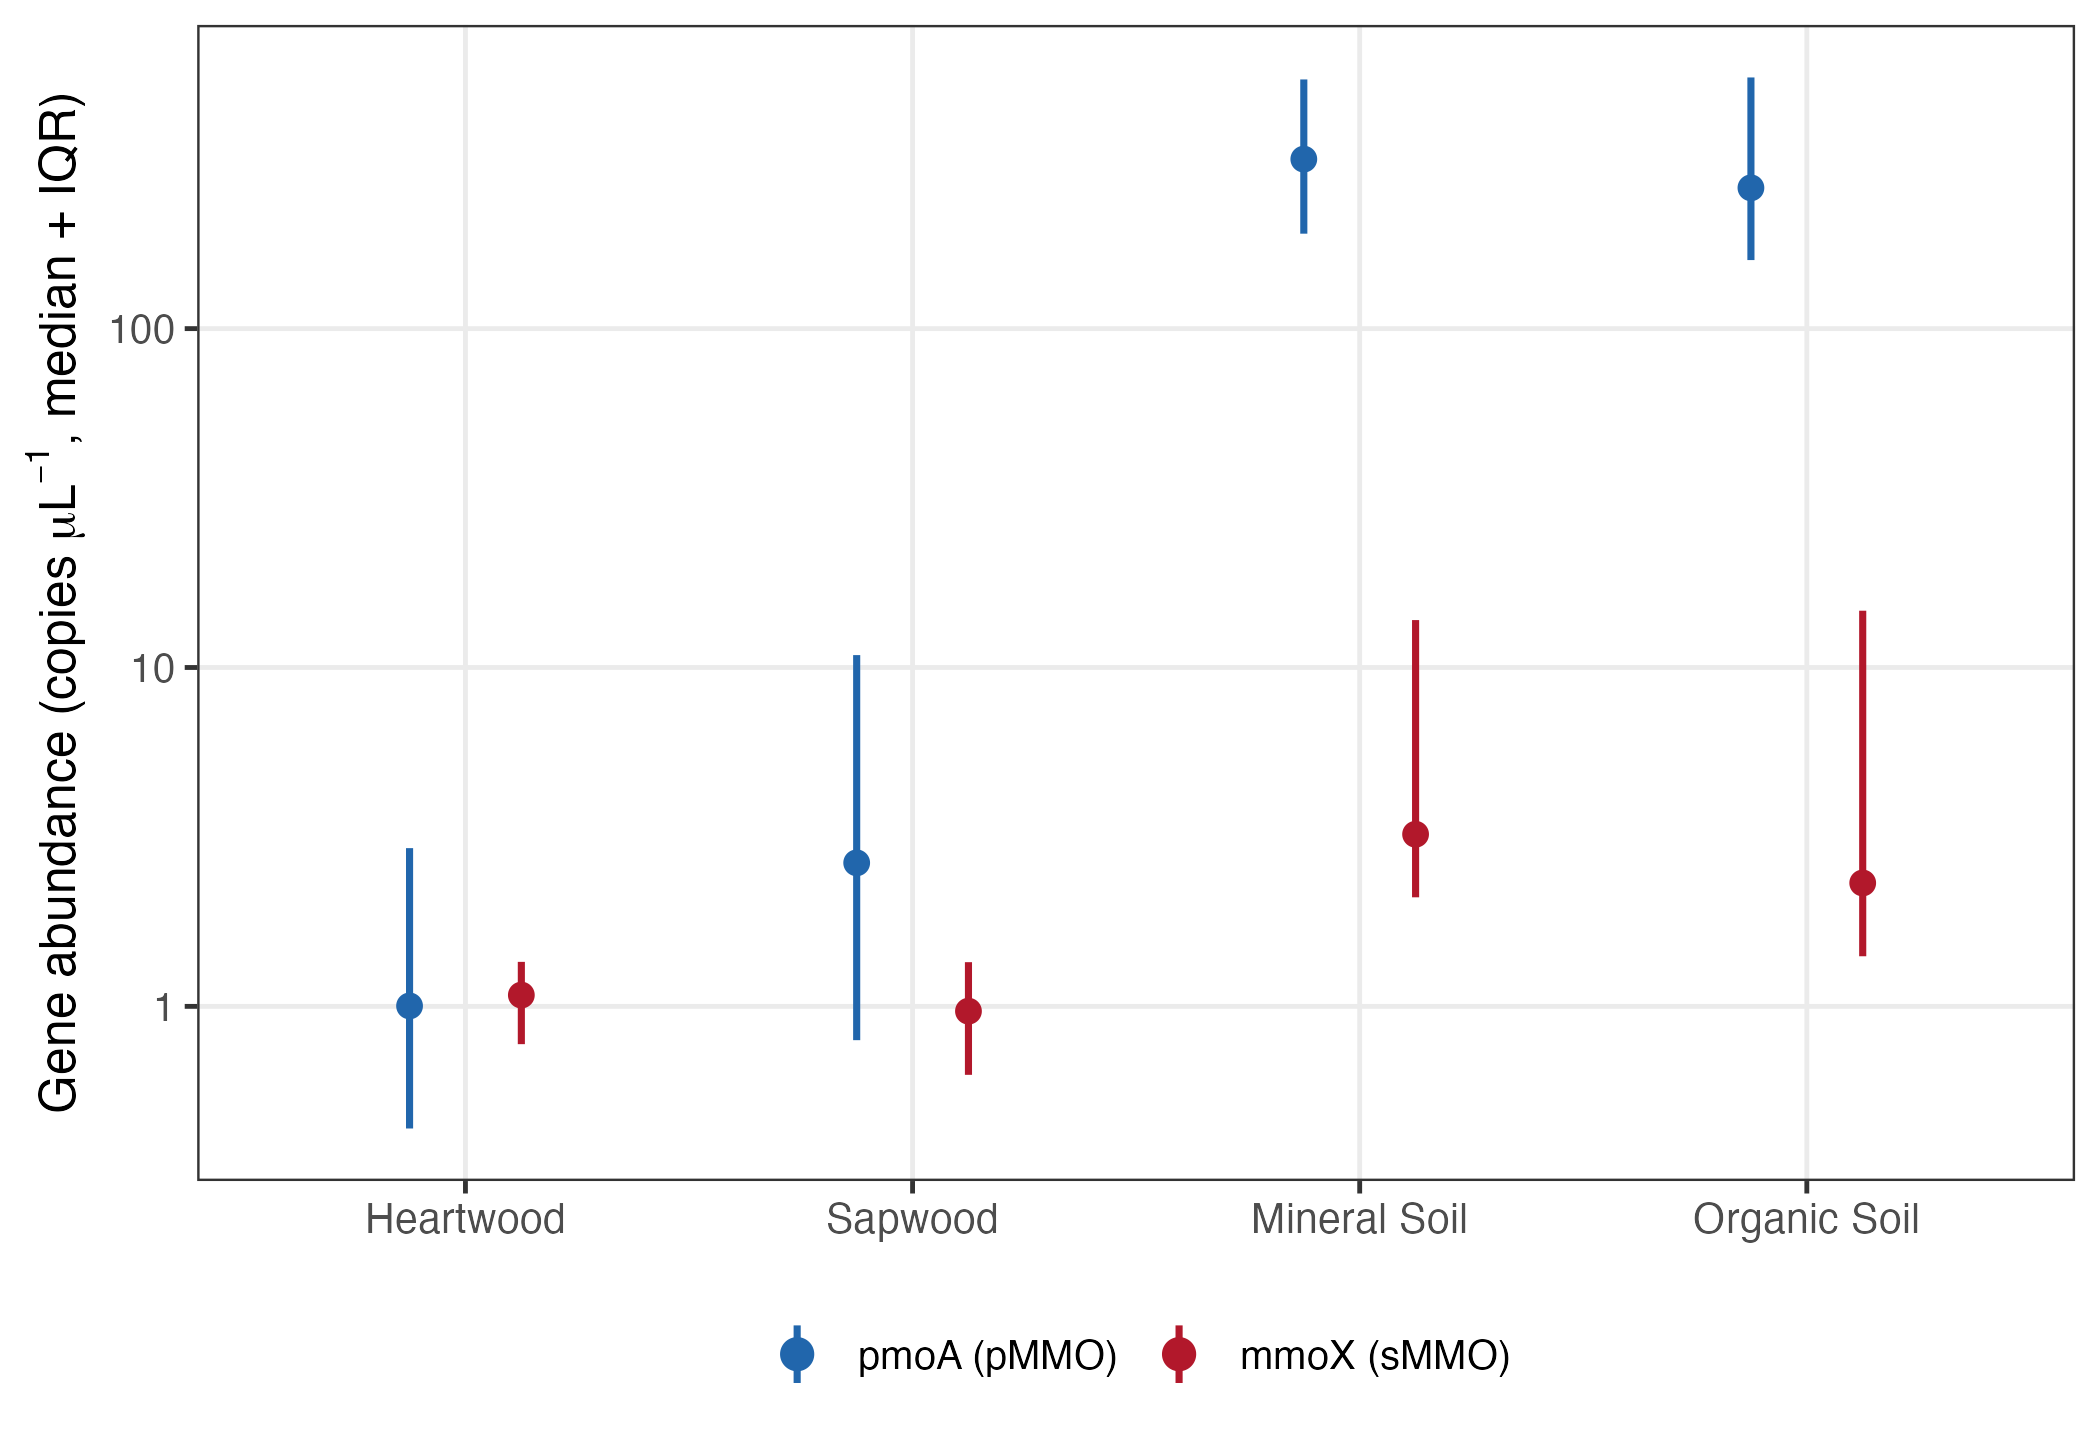
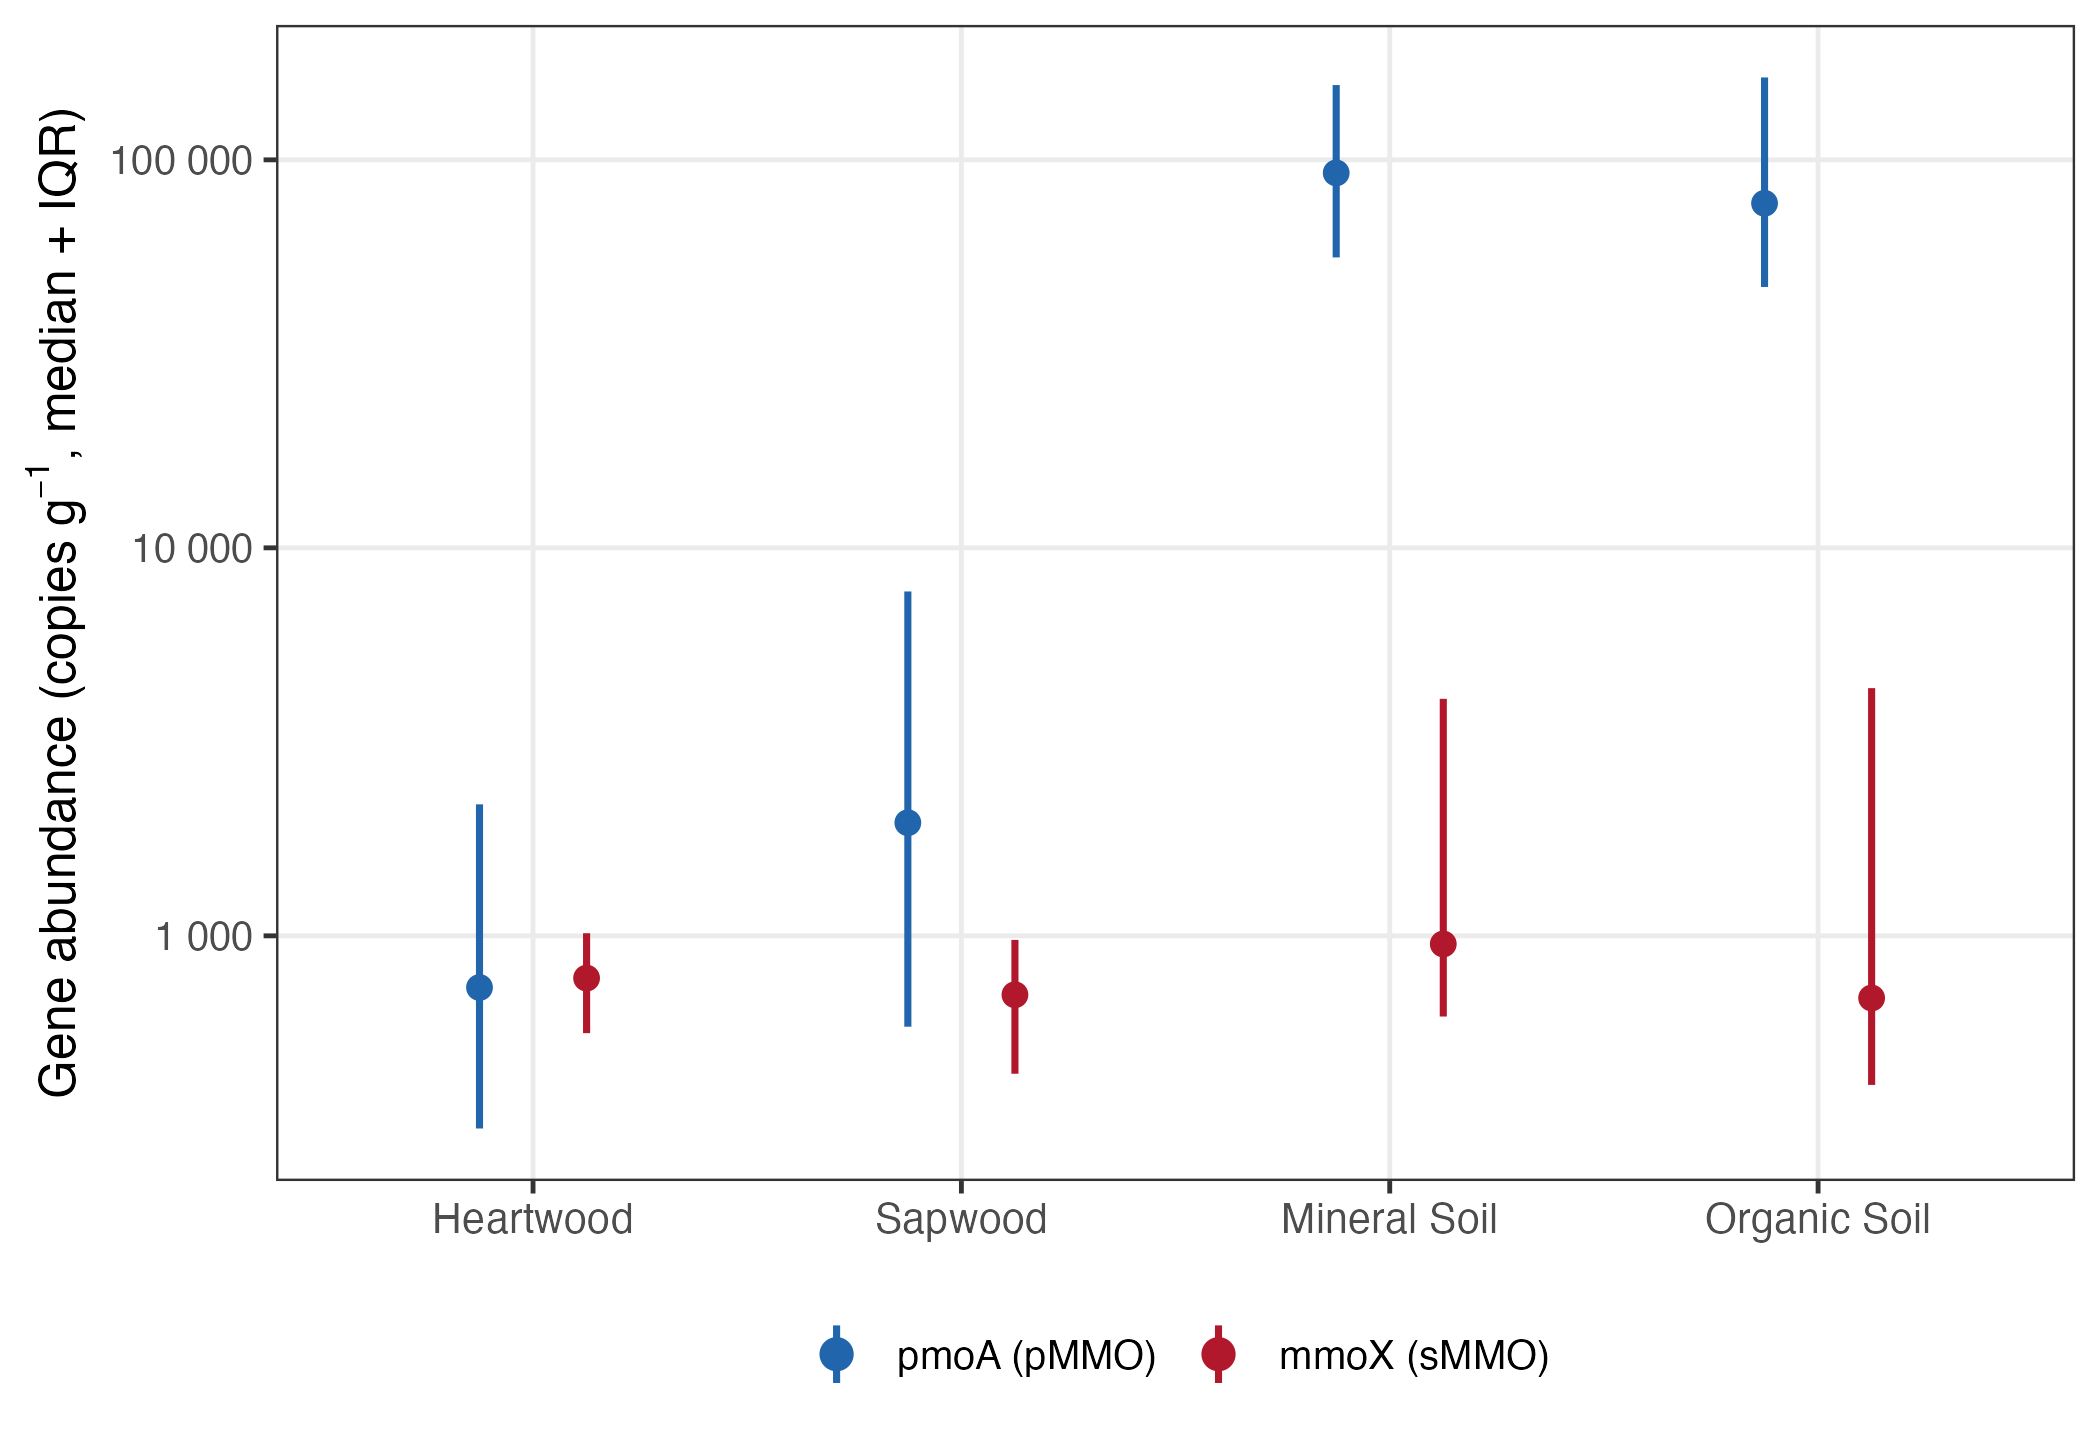
pmoA/mmoX: report in copies/g (not per-uL) + robustness of central results
- Convert the SI figure/tables to copies/g (conc x elution / sample mass, with
  10x toggle); note wood=dry, soil=wet basis pending moisture harmonization.
  Pattern unchanged (soil pmoA-dominated ~97x; heartwood balanced ~0.95).
- Add robustness check (R_pmoa_mmox_robustness.R, reuses 02_scale_dependent
  per-species objects): splitting the methanotroph pool does NOT change the
  conclusions. Combined pmoA+mmoX abundance->flux (R2=0.23) is carried by pmoA
  (0.25); mmoX alone negligible (0.04). Key ratio->flux holds: mcrA:(pmoA+mmoX)
  R2=0.47 p=0.030 ~ mcrA:pmoA R2=0.44 p=0.036; mcrA:mmoX weaker/ns (0.20).

diff --git a/revision/text/pmoa_mmox_robustness_note.md b/revision/text/pmoa_mmox_robustness_note.md
@@ -1,0 +1,38 @@
+# pmoA/mmoX split — robustness of the central gene–flux results (R2 #1c)
+
+Script `R_pmoa_mmox_robustness.R` (reuses the exact per-species objects from
+`02_scale_dependent_gene_patterns.R`; n = 10 species). Full table:
+`revision/outputs/pmoa_mmox_robustness.txt`.
+
+## Result
+
+| Model | Methanotroph term | R² | p |
+|---|---|---|---|
+| Abundance → flux | mcrA | 0.394 | 0.052 |
+| Abundance → flux | pmoA + mmoX (combined) | 0.230 | 0.161 |
+| Abundance → flux | **pmoA only** | **0.254** | 0.138 |
+| Abundance → flux | **mmoX only** | **0.039** | 0.584 |
+| Ratio → flux | mcrA : (pmoA + mmoX) | 0.465 | 0.030 |
+| Ratio → flux | **mcrA : pmoA** | **0.442** | **0.036** |
+| Ratio → flux | **mcrA : mmoX** | **0.197** | 0.198 |
+
+## Interpretation (for the R2 #1c response)
+
+Reporting pmoA and mmoX separately does **not** change any major conclusion:
+
+1. The combined pmoA+mmoX abundance→flux relationship is essentially the **pmoA**
+   relationship (pmoA-only R² = 0.25 ≈ combined 0.23); mmoX alone is negligible
+   (R² = 0.04). So the combined methanotroph term is carried by pmoA.
+2. The central result — the methanogen:methanotroph **ratio predicts stem flux** —
+   is **robust**: mcrA:(pmoA+mmoX) R² = 0.47 (p = 0.030) and mcrA:pmoA R² = 0.44
+   (p = 0.036) are effectively identical and both significant. Using mmoX alone in
+   the denominator weakens it (R² = 0.20, p = 0.198), consistent with pmoA being the
+   numerically dominant, more informative methanotroph gene here.
+
+**Takeaway:** the referee's concern (many methanotrophs encode both genes) is
+addressed — the flux relationships are driven by pmoA, and the ratio conclusion
+holds whether the methanotroph pool is defined as pmoA+mmoX or pmoA alone. This is
+a strengthening result, reported in SI (table + `SI_fig_pmoa_mmox_separate.png`).
+
+(These R²/p are all ratio- or log-based and thus invariant to the pending ×10 and to
+the dry/wet-weight basis.)
